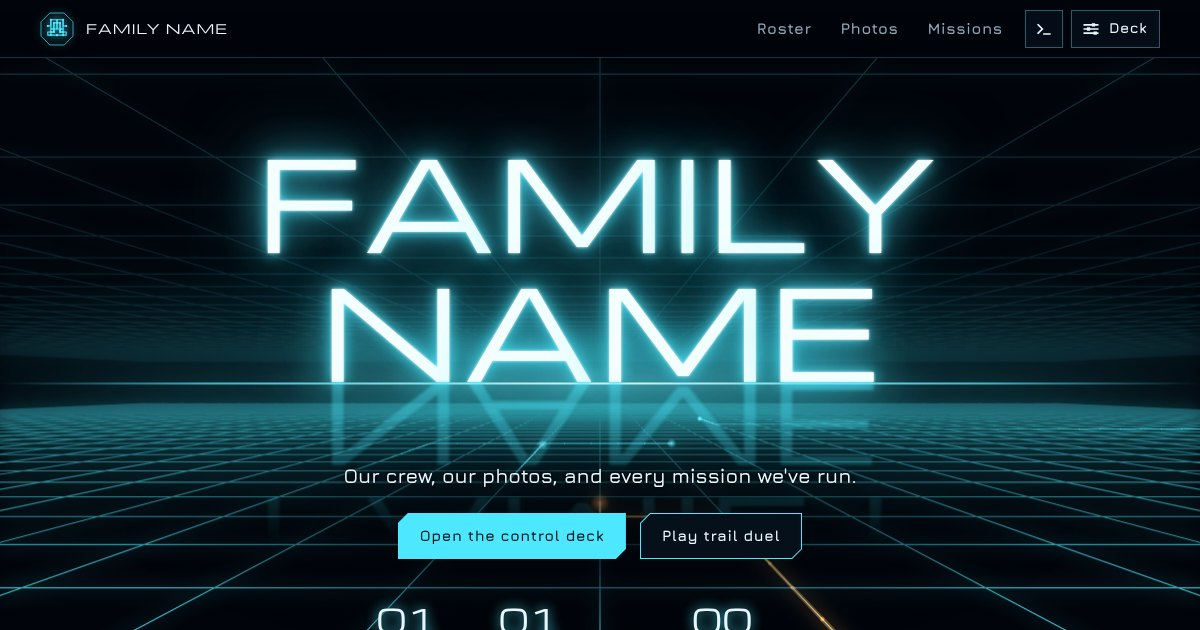
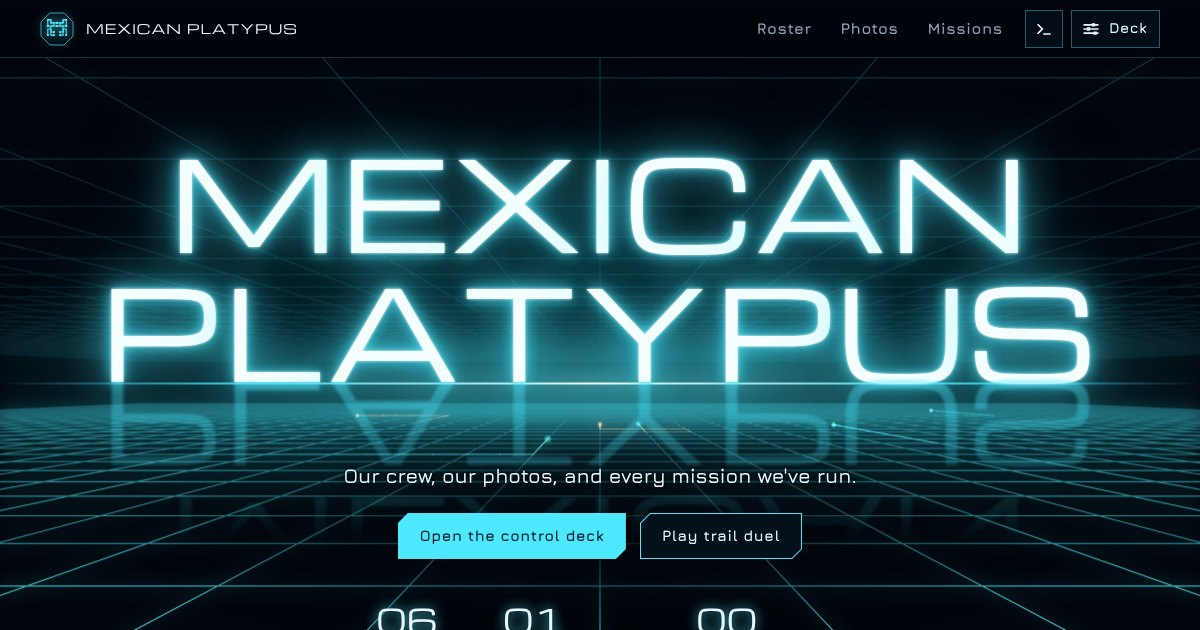
Name the family Mexican Platypus and set six member slots
Members who are not named yet show as numbered placeholders, and the
member count now reflects the whole family. Also keeps the top bar and
the sign inside the screen on very narrow phones.

Claude-Session: https://claude.ai/code/session_01Res8joWExZ83fbDrYjraj3

diff --git a/js/app.js b/js/app.js
@@ -102,7 +102,7 @@
     $("#updated").textContent = SITE.updated ? `Last updated ${fmtDate(SITE.updated, true)}.` : "";
 
     $("#readouts").innerHTML =
-      `<div class="readout"><dd data-n="${members.length}">00</dd><dt>${plural(members.length, "member")}</dt></div>` +
+      `<div class="readout"><dd data-n="${crew.length}">00</dd><dt>${plural(crew.length, "member")}</dt></div>` +
       `<div class="readout"><dd data-n="${missions.length}">00</dd><dt>${plural(missions.length, "mission")}</dt></div>` +
       `<div class="readout"><dd data-n="${earned}">00</dd><dt>points earned${inPlay ? ` <small>+${inPlay} in play</small>` : ""}</dt></div>`;
     const delay = root.classList.contains("no-intro") ? 250 : 1250;
@@ -135,10 +135,10 @@
   /* ---------- roster ---------- */
   function renderRoster() {
     const open = crew.length - members.length;
-    $("#roster-note").textContent = `${members.length} ${plural(members.length, "member")}${open ? `, ${open} open ${plural(open, "slot")}` : ""}`;
-    $("#roster-list").innerHTML = crew.map((m) => {
+    $("#roster-note").textContent = `${crew.length} ${plural(crew.length, "member")}${open ? `, ${open} still to be named` : ""}`;
+    $("#roster-list").innerHTML = crew.map((m, n) => {
       if (m.open) {
-        return `<li class="card is-open"><div class="plate"><div class="plate-in"><div class="avatar">${OPEN_SVG}</div><h3 class="card-name">Open slot</h3><p class="card-about">Saved for the next member.</p></div></div></li>`;
+        return `<li class="card is-open"><div class="plate"><div class="plate-in"><div class="avatar">${OPEN_SVG}</div><h3 class="card-name">Member ${n + 1}</h3><p class="card-about">Name coming soon.</p></div></div></li>`;
       }
       const avatar = m.photo
         ? `<img src="${esc(m.photo)}" alt="Portrait of ${esc(m.name)}" loading="lazy" decoding="async">${FRAME_SVG}`
@@ -515,8 +515,8 @@
     } },
     roster: { about: "Show the members", run() {
       const open = crew.length - members.length;
-      say(`Roster: ${members.length} ${plural(members.length, "member")}${open ? `, ${open} open ${plural(open, "slot")}` : ""}`);
-      members.forEach((m, i) => say(`  ${pad2(i + 1)}  ${m.name}${m.role ? ", " + m.role : ""}`));
+      say(`Roster: ${crew.length} ${plural(crew.length, "member")}${open ? `, ${open} still to be named` : ""}`);
+      crew.forEach((m, i) => say(`  ${pad2(i + 1)}  ${m.open ? "name coming soon" : m.name + (m.role ? ", " + m.role : "")}`));
     } },
     missions: { about: "Show the mission log", run() {
       if (!missions.length) return say("No missions logged yet.");

diff --git a/index.html b/index.html
@@ -3,19 +3,19 @@
 <head>
 <meta charset="utf-8">
 <meta name="viewport" content="width=device-width, initial-scale=1">
-<title>Family Site</title>
-<meta name="description" content="Our family's home base: the roster, the photos, and every mission we've run.">
+<title>Mexican Platypus</title>
+<meta name="description" content="Home base for the Mexican Platypus family: the roster, the photos, and every mission we've run.">
 <meta name="theme-color" content="#01040a">
 <meta name="color-scheme" content="dark">
 <meta property="og:type" content="website">
-<meta property="og:title" content="Family Site">
+<meta property="og:title" content="Mexican Platypus">
 <meta property="og:description" content="The roster, the photos, and every mission we've run.">
 <meta property="og:image" content="https://aarush35.github.io/family_site/assets/share.jpg">
 <meta name="twitter:card" content="summary_large_image">
 <link rel="icon" href="favicon.svg" type="image/svg+xml">
 <link rel="preload" href="fonts/michroma-latin-400-normal.woff2" as="font" type="font/woff2" crossorigin>
 <link rel="preload" href="fonts/jura-latin-wght-normal.woff2" as="font" type="font/woff2" crossorigin>
-<link rel="stylesheet" href="css/site.css?v=1">
+<link rel="stylesheet" href="css/site.css?v=2">
 <script>
 /* Apply saved deck choices before the first paint, and play the intro once per visit. */
 (function () {
@@ -272,9 +272,9 @@
 
 <noscript><p class="noscript">This page needs JavaScript to draw the roster, the photos and the mission log.</p></noscript>
 
-<script src="js/data.js?v=1"></script>
-<script src="js/fx.js?v=1"></script>
-<script src="js/game.js?v=1"></script>
-<script src="js/app.js?v=1"></script>
+<script src="js/data.js?v=2"></script>
+<script src="js/fx.js?v=2"></script>
+<script src="js/game.js?v=2"></script>
+<script src="js/app.js?v=2"></script>
 </body>
 </html>

diff --git a/css/site.css b/css/site.css
@@ -146,7 +146,7 @@ kbd { display: inline-block; min-width: 21px; padding: 1px 5px; border: 1px soli
 .hero-sky { display: grid; align-items: end; justify-items: center; padding: 28px var(--gutter) 0; }
 .sign {
   grid-area: 1 / 1; max-width: 100%;
-  font: 400 clamp(40px, 10.5vw, 124px)/1.04 var(--f-display); letter-spacing: .02em; text-transform: uppercase; text-align: center;
+  font: 400 clamp(32px, 10.5vw, 124px)/1.04 var(--f-display); letter-spacing: .02em; text-transform: uppercase; text-align: center;
   color: #f5feff;
   text-shadow: 0 0 calc(3px * var(--glow)) #fff, 0 0 calc(14px * var(--glow)) var(--accent), 0 0 calc(40px * var(--glow)) var(--accent), 0 0 calc(90px * var(--glow)) color-mix(in srgb, var(--accent) 60%, transparent);
   cursor: default;
@@ -484,6 +484,14 @@ h1.sign .ch:hover { transform: translateY(-4%); filter: brightness(1.5) drop-sha
   .readouts { gap: 10px; align-self: stretch; }
   .readout { flex: 1 1 0; align-content: start; }
   .readout dt small { display: block; }
+}
+@media (max-width: 380px) {
+  .bar { gap: 8px; }
+  .brand-sigil { width: 30px; height: 30px; }
+  .nav { gap: 10px; font-size: 13.5px; letter-spacing: .01em; }
+  .bar-tools { gap: 6px; }
+  .tool { height: 34px; min-width: 34px; padding: 0 6px; }
+  .tool-wide { padding: 0 6px; }
 }
 @media (hover: none) {
   .shot-cap { opacity: 1; transform: none; }

diff --git a/js/data.js b/js/data.js
@@ -7,14 +7,16 @@
    Photo files live in the photos/ folder.
    ============================================================ */
 window.SITE = {
-  family: "Family Name",
+  family: "Mexican Platypus",
   tagline: "Our crew, our photos, and every mission we've run.",
   updated: "2026-11-14",
 
-  /* One entry per member. Leave role, about and photo empty until you have them.
-     { open: true } draws an empty slot. */
+  /* One entry per member, six in all. Leave role, about and photo empty until you have them.
+     { open: true } holds the place of a member who isn't named here yet. */
   crew: [
     { name: "Aarush Paraskar", role: "", about: "", photo: "", links: [] },
+    { open: true },
+    { open: true },
     { open: true },
     { open: true },
     { open: true }

diff --git a/README.md b/README.md
@@ -1,6 +1,6 @@
-# Family Site
+# Mexican Platypus
 
-Our family's page for Mission 7: the roster, the photos and the mission log.
+The Mexican Platypus family page, built for Mission 7: the roster, the photos and the mission log.
 
 Live at https://aarush35.github.io/family_site/
 
@@ -9,7 +9,7 @@ Live at https://aarush35.github.io/family_site/
 Everything on the page is drawn from one file, `js/data.js`.
 
 - **Family name and tagline:** the first two lines.
-- **Roster:** one entry per member in `crew`. Only `name` is required. Add `role`, `about`, a `photo` path and `links` when you have them. `{ open: true }` draws an empty slot.
+- **Roster:** one entry per member in `crew`. Only `name` is required. Add `role`, `about`, a `photo` path and `links` when you have them. `{ open: true }` holds the place of a member who isn't named yet.
 - **Photos:** put the image files in `photos/`, then list them in `photos` with a caption and a date.
 - **Missions:** one entry per mission in `missions`. `status` is `started`, `submitted` or `complete`, and the points tally follows from it.
 
